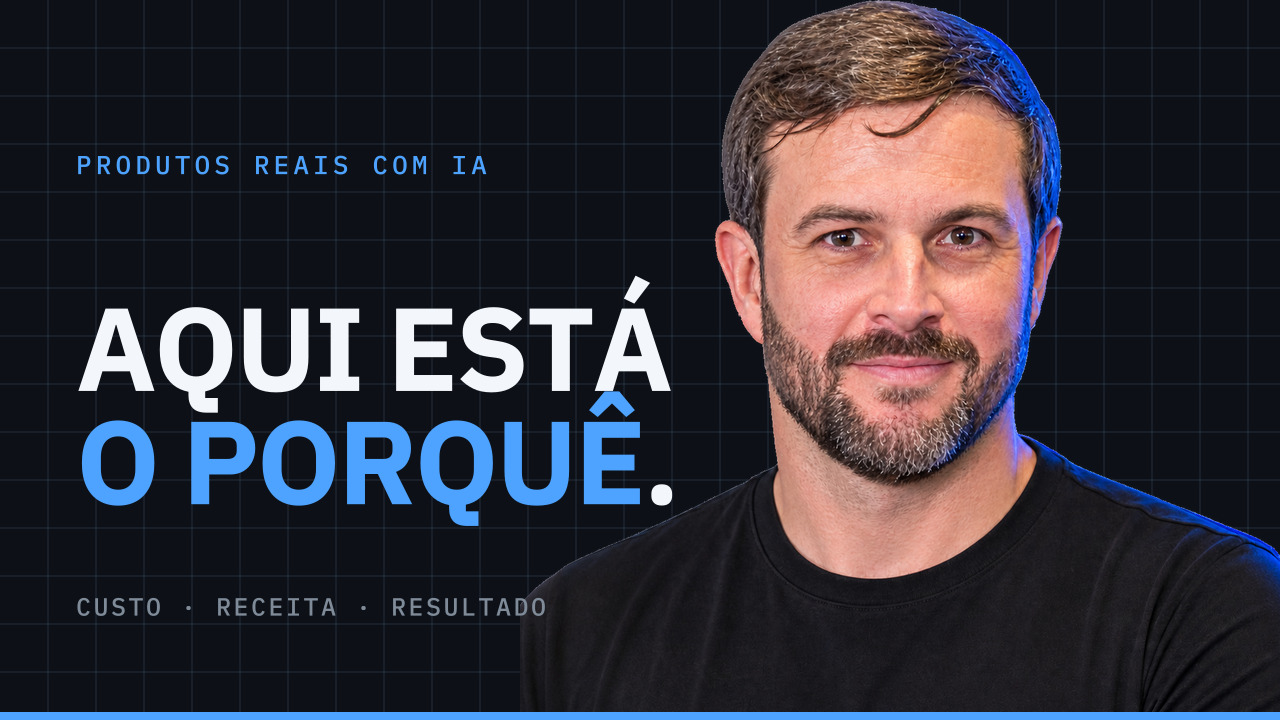
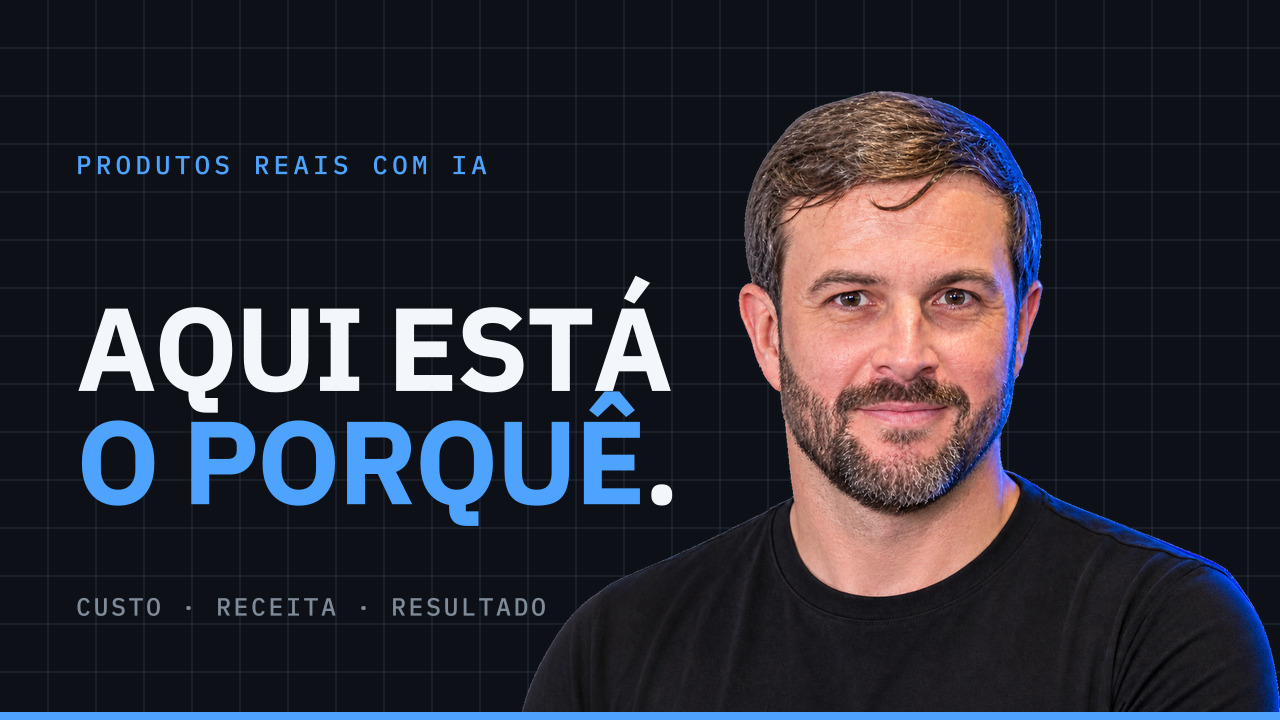
fix: preserve full founder photography

diff --git a/brand-assets/exports/day-1/05-youtube/versions/v2-approved-founder-cutouts/README.md b/brand-assets/exports/day-1/05-youtube/versions/v2-approved-founder-cutouts/README.md
@@ -19,7 +19,7 @@ Este pack não substitui os exports publicados em `day-1/05-youtube/` nem sobres
 
 - `#0D1117` e grid estrutural de 48px, sem redução de opacidade;
 - headline à esquerda, retrato ampliado à direita;
-- retratos frontais e `present-left` usam faixa dominante de 760px; a variante `present-left` remove o gesto manual para manter somente o corpo do fundador;
+- toda foto de fundador usa `fit: contain` dentro da faixa de 760px: a imagem é ajustada sem cortar ombro, braço, cabeça ou mão;
 - headline, copy, safe zone e barra inferior do Reference Pattern;
 - IBM Plex Sans para headline e IBM Plex Mono para kicker/subline;
 - foto completa, sem fade, sombra, escurecimento ou recorte de gesto;

diff --git a/brand-assets/thumbnails/versions/v2-approved-founder-cutouts/README.md b/brand-assets/thumbnails/versions/v2-approved-founder-cutouts/README.md
@@ -19,7 +19,7 @@ Este pack não substitui os exports publicados em `day-1/05-youtube/` nem sobres
 
 - `#0D1117` e grid estrutural de 48px, sem redução de opacidade;
 - headline à esquerda, retrato ampliado à direita;
-- retratos frontais e `present-left` usam faixa dominante de 760px; a variante `present-left` remove o gesto manual para manter somente o corpo do fundador;
+- toda foto de fundador usa `fit: contain` dentro da faixa de 760px: a imagem é ajustada sem cortar ombro, braço, cabeça ou mão;
 - headline, copy, safe zone e barra inferior do Reference Pattern;
 - IBM Plex Sans para headline e IBM Plex Mono para kicker/subline;
 - foto completa, sem fade, sombra, escurecimento ou recorte de gesto;
